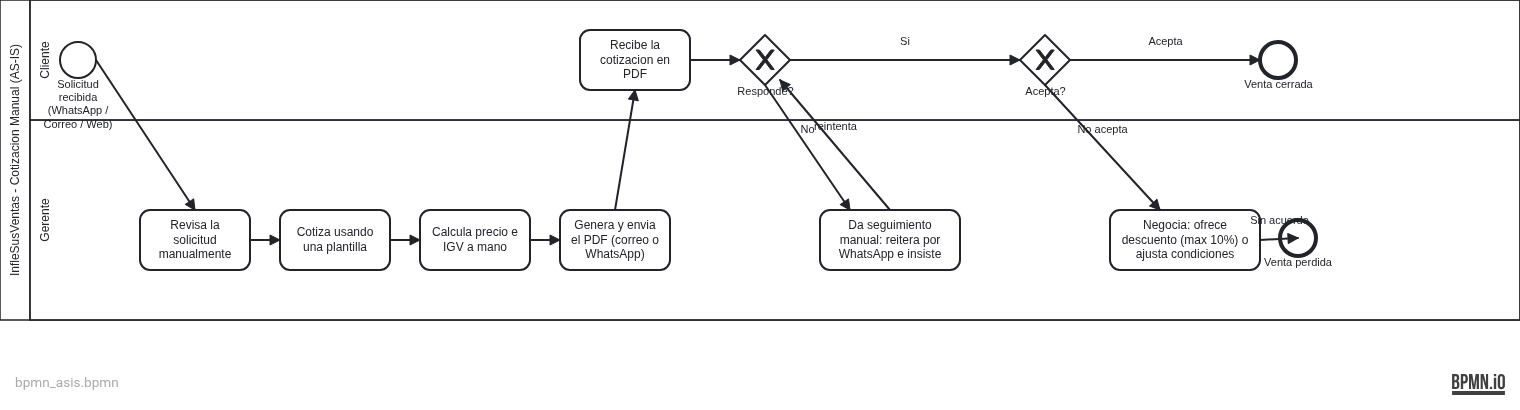
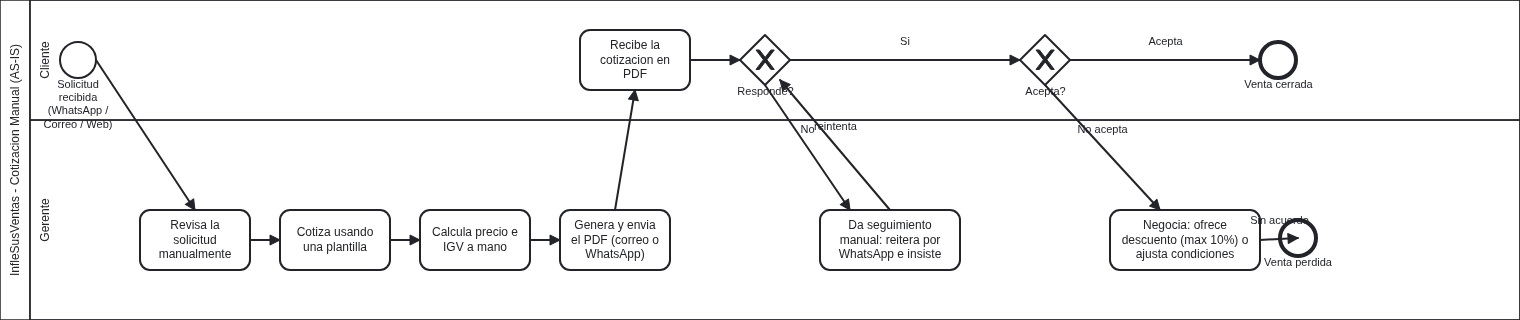
BPMN

diff --git a/Documentacion/01_Desarrollo_Semanal/Semana_01_Introduccion/README.md b/Documentacion/01_Desarrollo_Semanal/Semana_01_Introduccion/README.md
@@ -109,43 +109,11 @@ Modelo del proceso **manual** actual.
 
 ![BPMN AS-IS - Cotización manual de InfleSusVentas](../../04_Recursos/imagenes/bpmn_asis.png)
 
-Archivo BPMN 2.0 **editable** (importable en **Bizagi Modeler** / Camunda / bpmn.io):
+Archivo BPMN 2.0 **editable** en **Bizagi Modeler**:
 [`../../04_Recursos/diagramas/bpmn_asis.bpmn`](../../04_Recursos/diagramas/bpmn_asis.bpmn).
-Vista alternativa en Mermaid (GitHub la renderiza):
 
-```mermaid
-flowchart TD
-    subgraph Cliente
-        A((Inicio)) --> B[Envia solicitud por WhatsApp / Yahoo Mail / formulario web]
-        L[Recibe la cotizacion en PDF]
-        M{Responde?}
-        M2{Acepta?}
-        N((Venta cerrada))
-        X((Venta perdida))
-    end
-    subgraph Gerente
-        C[Revisa la solicitud manualmente]
-        D[Cotiza usando una plantilla]
-        E[Calcula precio e IGV a mano]
-        F[Genera el PDF]
-        G[Envia el PDF por correo o WhatsApp]
-        H[Espera respuesta]
-        S[Da seguimiento manual: reitera por WhatsApp e insiste]
-        K[Negocia: ofrece descuento max 10% o ajusta condiciones]
-    end
-    B --> C --> D --> E --> F --> G --> L
-    L --> M
-    M -- No --> H --> S --> M
-    M -- Si --> M2
-    M2 -- Si --> N
-    M2 -- No --> K
-    K -- reenvia propuesta --> L
-    K -- sin acuerdo --> X
-    S -. sin respuesta tras varios intentos .-> X
-```
-
-**Puntos de dolor sobre el flujo:** los pasos D, E, F y G son **manuales** (dolores D1, D2, D6) y no
-hay numeración, fecha ni historial automáticos (D3, D4). Además, el **seguimiento** (H, S, K) es
+**Puntos de dolor sobre el flujo:** cotizar, calcular el IGV y generar y enviar el PDF son pasos **manuales** (dolores D1, D2, D6) y no
+hay numeración, fecha ni historial automáticos (D3, D4). Además, el **seguimiento** es
 **manual, ad-hoc y sin recordatorios**: cuando el cliente no responde, la insistencia depende de la
 memoria del Gerente, por lo que **muchas cotizaciones se enfrían y se pierden ventas** (dolor D7).
 
@@ -156,55 +124,9 @@ descuento (máx 10%)**.
 
 ![BPMN TO-BE - Cotización con el sistema InfleSusVentas](../../04_Recursos/imagenes/bpmn_tobe.png)
 
-Archivo BPMN 2.0 **editable** (importable en **Bizagi Modeler** / Camunda / bpmn.io):
+Archivo BPMN 2.0 **editable** en **Bizagi Modeler**:
 [`../../04_Recursos/diagramas/bpmn_tobe.bpmn`](../../04_Recursos/diagramas/bpmn_tobe.bpmn).
 Se refinará en el modelado de la [Semana 3](../Semana_03_Analisis_y_Modelado/README.md).
-Vista alternativa en Mermaid:
-
-```mermaid
-flowchart TD
-    subgraph Cliente
-        A((Inicio)) --> B[Envia solicitud]
-        P[Recibe la cotizacion por correo]
-        Q{Responde?}
-        Q2{Acepta?}
-        R((Venta cerrada))
-        X((Venta perdida))
-    end
-    subgraph Gerente
-        L0[Inicia sesion: usuario autorizado]
-        C[Crea Nueva Cotizacion en el sistema]
-        D[Ingresa el RUC del cliente]
-        E[Agrega items: tipo + medidas]
-        E2[Aplica descuento max 10% segun cantidad]
-        H[Exporta y envia por correo desde la plataforma]
-        S[Atiende el recordatorio y da seguimiento]
-        K[Negocia: descuento max 10% o ajusta condiciones]
-    end
-    subgraph Sistema
-        F[Valida RUC y autocompleta razon social]
-        G[Calcula precio, descuento, IGV, numero y fecha]
-        J[Guarda en historial y marca estado Enviada]
-        T[Genera recordatorio y registra el seguimiento]
-    end
-    subgraph Servicios_externos[Servicios externos]
-        SR[(Servicio de RUC)]
-        SC[(Servicio de Correo)]
-    end
-    B --> L0 --> C --> D --> F
-    F <--> SR
-    F --> E --> E2 --> G --> H
-    H <--> SC
-    H --> J --> P --> Q
-    J --> T --> S
-    S -- recuerda o reenvia --> H
-    Q -- No --> T
-    Q -- Si --> Q2
-    Q2 -- Si --> R
-    Q2 -- No --> K
-    K -- reenvia propuesta --> H
-    K -- sin acuerdo --> X
-```
 
 **Mejora esperada:** el sistema automatiza la validación de RUC, el cálculo de precio/IGV, la
 numeración, la fecha, la exportación, el envío y el historial (dolores D1–D6). Sobre el **seguimiento**
@@ -364,39 +286,7 @@ priorizados en la Semana 5. Cada mes cierra con un **hito** verificable.
 
 ![Cronograma de implementación - InfleSusVentas (4 meses)](../../04_Recursos/imagenes/cronograma_gantt.png)
 
-> Imagen generada desde la fuente **Mermaid** de abajo (GitHub también la renderiza en vivo). Las
-> fechas son **referenciales** (inicio ajustable por el equipo).
-
-```mermaid
-gantt
-    title Cronograma de Implementación - InfleSusVentas (4 meses)
-    dateFormat  YYYY-MM-DD
-    axisFormat  %d-%b
-
-    section Mes 1 - Inicio y Elaboracion (RUP)
-    Elicitacion y analisis            :e1, 2026-08-03, 2w
-    Modelado UML y arquitectura       :e2, after e1, 1w
-    Especificacion SRS y linea base   :e3, after e2, 1w
-    Linea base SRS aprobada           :milestone, m0, after e3, 0d
-
-    section Mes 2 - Construccion: Iteracion 1 (MVP 1)
-    Cliente + validacion de RUC       :c1, after e3, 1w
-    Catalogo + logica de medidas      :c2, after c1, 1w
-    Precio + IGV + numeracion          :c3, after c2, 1w
-    Exportar PDF/Word + envio + historial :c4, after c3, 1w
-    MVP 1 - cotizacion estandar       :milestone, m1, after c4, 0d
-
-    section Mes 3 - Construccion: Iteracion 2 (MVP 2)
-    Cotizacion rapida                 :d1, after c4, 2w
-    Filtros, estado de envio, IGV configurable :d2, after d1, 2w
-    MVP 2 - agilidad y control        :milestone, m2, after d2, 0d
-
-    section Mes 4 - Construccion/Transicion: Iteracion 3 (MVP 3)
-    Duplicar/convertir + bitacora     :f1, after d2, 1w
-    Pruebas y validacion (UAT)        :f2, after f1, 2w
-    Despliegue y capacitacion         :f3, after f2, 1w
-    MVP 3 / Go-live                   :milestone, m3, after f3, 0d
-```
+> Fechas **referenciales**: el inicio es ajustable por el equipo.
 
 ---
 

diff --git a/Documentacion/04_Recursos/diagramas/README.md b/Documentacion/04_Recursos/diagramas/README.md
@@ -1,21 +1,17 @@
 # Diagramas fuente (editables)
 
-Archivos fuente de los diagramas del proyecto. Se versionan aquí; sus **exportaciones a imagen**
-(`.png`) van en [`../imagenes/`](../imagenes/).
+Archivos fuente de los diagramas del proyecto. Sus **exportaciones a imagen** (`.png`) están en
+[`../imagenes/`](../imagenes/).
 
-## BPMN 2.0 (importables en Bizagi Modeler)
+## BPMN (Bizagi Modeler)
 
 | Archivo | Proceso | Referenciado en |
 |---|---|---|
 | `bpmn_asis.bpmn` | Flujo de cotización **manual** (AS-IS) | Semana 1 §3.5 |
 | `bpmn_tobe.bpmn` | Flujo de cotización **con el sistema** (TO-BE) | Semana 1 §3.6 |
 
-### Cómo abrirlos
-- Son **BPMN 2.0 (XML estándar)**. Se importan en **Bizagi Modeler** (`Archivo → Importar → BPMN 2.0`),
-  o se abren en **Camunda Modeler**, **draw.io** (bpmn.io) o cualquier herramienta compatible.
-- En Linux, donde Bizagi Modeler no se instala, se pueden abrir/editar en **camunda-modeler** o en
-  [demo.bpmn.io](https://demo.bpmn.io) y luego exportar el `.png` a `../imagenes/`.
+Formato **BPMN 2.0**; se abren y editan en **Bizagi Modeler**.
 
 > Alcance del TO-BE: incluye el **inicio de sesión** del gerente (uso exclusivo del usuario autorizado),
-> el **botón de descuento (máx 10% según cantidad)** y el **seguimiento** (estados, recordatorios y
+> el **botón de descuento (máx 10 % según cantidad)** y el **seguimiento** (estados, recordatorios y
 > registro de negociación) para cerrar la venta.

diff --git a/Documentacion/04_Recursos/imagenes/README.md b/Documentacion/04_Recursos/imagenes/README.md
@@ -18,5 +18,4 @@ Nombrar los archivos en minúsculas y sin espacios.
 | `entidad_relacion.png` | Semana 9 — Modelo de datos | Pendiente |
 | `wireframes_*.png` | Semana 14 — Prototipos | Pendiente |
 
-> El Gantt tiene su fuente en Mermaid dentro de la Semana 1 (GitHub lo renderiza); aquí va la
-> versión exportada para la presentación.
+> Los BPMN se exportan desde los archivos fuente en [`../diagramas/`](../diagramas/).